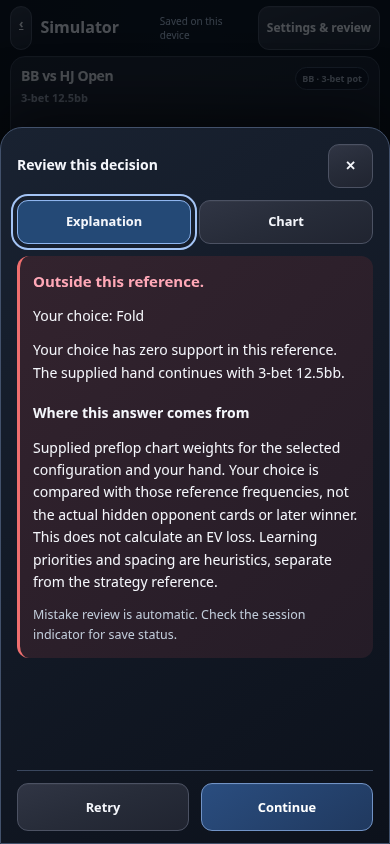
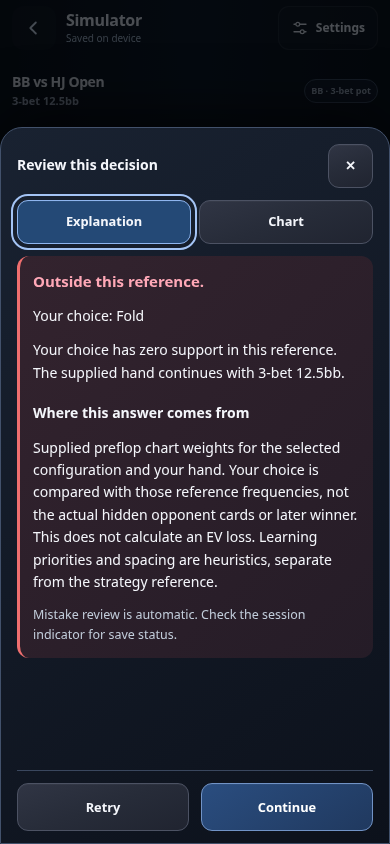
fix: simplify mobile hand finish and polish simulator shell

diff --git a/src/app/interface.css b/src/app/interface.css
@@ -896,3 +896,34 @@ button:not(:disabled):active {
   .trainer-table .playing-card--small .playing-card__rank { font-size:16px; }
   .trainer-table .playing-card--small .playing-card__suit { font-size:14px; }
 }
+@media(max-width:768px), (max-width:1024px) and (max-height:600px) {
+  .trainer-table > .hand-result > .btn { grid-column:1/-1; }
+}
+/* A single continuous play surface, without the former outer card frame. */
+@media(max-width:768px), (max-width:1024px) and (max-height:600px) {
+  body.simulator-focus { background:var(--bg); }
+  .play-page { padding:env(safe-area-inset-top) env(safe-area-inset-right) env(safe-area-inset-bottom) env(safe-area-inset-left); gap:0; background:radial-gradient(ellipse at 50% 0,#18253c48,transparent 65%),var(--bg); }
+  .play-page .trainer-table { border:0; border-radius:0; box-shadow:none; background:transparent; padding:10px 12px; }
+  .sim-header { min-height:56px; padding:6px 12px; gap:10px; }
+  .sim-back { display:grid; place-items:center; flex:none; width:44px; height:44px; border:0; border-radius:12px; color:#e4edfb; background:#ffffff06; text-decoration:none; }
+  .sim-back:hover { background:#ffffff0d; }
+  .sim-header__title { min-width:0; flex:1; display:flex; flex-direction:column; align-items:flex-start; gap:2px; }
+  .sim-header__title strong { font-size:16px; line-height:1.25; letter-spacing:-.3px; }
+  .sim-header__title .sim-save-status { max-width:100%; font-size:10px; line-height:1.35; color:#b3c0d3; }
+  .sim-header .sim-menu { display:flex; align-items:center; justify-content:center; flex:none; gap:7px; min-height:44px; padding:8px 12px; background:#ffffff05; border-color:#ffffff14; box-shadow:none; font-size:12px; }
+  .trainer-table .range-card__head { gap:10px; align-items:center; }
+  .trainer-table .range-card__title h2 { line-height:1.3; }
+  .trainer-table .range-card__title > span { line-height:1.4; margin-top:2px; }
+}
+@media(max-width:768px), (max-width:1024px) and (max-height:600px) {
+  .trainer-table > .sim-compact { display:grid; grid-template-columns:minmax(0,1fr) minmax(0,1fr); grid-template-rows:18px minmax(0,1fr) 44px; gap:4px; padding:6px 8px; overflow:hidden; }
+  .sim-compact > strong,.sim-compact > span { grid-column:1/-1; min-width:0; margin:0; font-size:12px; line-height:1.25; }
+  .sim-compact > strong { white-space:nowrap; overflow:hidden; text-overflow:ellipsis; }
+  .sim-compact > span { width:auto; overflow:hidden; }
+  .trainer-table .sim-compact > .btn { min-width:0; height:44px; min-height:44px; padding:4px 6px; margin:0; font-size:12px; line-height:1.25; }
+}
+.sim-settings .sim-sheet__scroll { display:flex; flex-direction:column; gap:12px; }
+.sim-settings .sim-sheet__scroll > * { flex-shrink:0; }
+.sim-settings .sim-sheet__scroll > .card { margin:0; }
+.sim-settings .sim-sheet__scroll > .footer { display:none; }
+.sim-settings .learning-score-note { margin:0; text-align:left; }

diff --git a/src/components/trainer/PlayFrame.tsx b/src/components/trainer/PlayFrame.tsx
@@ -61,20 +61,49 @@ export function PlayFrame({ children }: { children: ReactNode }) {
     >
       <main className="page play-page">
         <header className="sim-header">
-          <a className="btn" href="/" aria-label="Leave simulator">
-            ‹
+          <a className="sim-back" href="/" aria-label="Leave simulator">
+            <svg
+              width="22"
+              height="22"
+              viewBox="0 0 24 24"
+              fill="none"
+              stroke="currentColor"
+              strokeWidth="2"
+              strokeLinecap="round"
+              strokeLinejoin="round"
+              aria-hidden="true"
+            >
+              <path d="m14 6-6 6 6 6" />
+            </svg>
           </a>
-          <strong>Simulator</strong>
-          <span role="status" className="sim-save-status">
-            {status}
-          </span>
+          <div className="sim-header__title">
+            <strong>Simulator</strong>
+            <span role="status" className="sim-save-status" title={status}>
+              {status === 'Saved on this device' ? 'Saved on device' : status}
+            </span>
+          </div>
           <button
-            className="btn"
+            className="btn sim-menu"
             ref={trigger}
             onClick={() => setSettings(true)}
             aria-haspopup="dialog"
+            aria-label="Settings & review"
           >
-            Settings & review
+            <svg
+              width="18"
+              height="18"
+              viewBox="0 0 24 24"
+              fill="none"
+              stroke="currentColor"
+              strokeWidth="1.7"
+              strokeLinecap="round"
+              aria-hidden="true"
+            >
+              <path d="M4 7h16M4 17h16" />
+              <circle cx="9" cy="7" r="2.5" fill="var(--bg)" />
+              <circle cx="15" cy="17" r="2.5" fill="var(--bg)" />
+            </svg>
+            <span>Settings</span>
           </button>
         </header>
         {children}
@@ -127,4 +156,10 @@ export function MobileCharts({ children }: { children: ReactNode }) {
   ) : (
     <>{children}</>
   )
+}
+
+/** Global page navigation stays outside the focused simulator's settings. */
+export function DesktopOnly({ children }: { children: ReactNode }) {
+  const ui = usePlayUI()
+  return ui?.mobile ? null : <>{children}</>
 }

diff --git a/src/components/trainer/HandResult.tsx b/src/components/trainer/HandResult.tsx
@@ -1,8 +1,7 @@
 'use client'
-import { useEffect, useId, useRef, useState, type ReactNode } from 'react'
-import { useJournal } from '@/learning/Journal'
+import type { ReactNode } from 'react'
 import { usePlayUI } from './PlayFrame'
-/** Keep long final summaries in the same overlay pattern as decision feedback. */
+/** Finish at the table; mobile has no extra end-of-hand review popup. */
 export function HandResult({
   children,
   action,
@@ -10,60 +9,11 @@ export function HandResult({
   children: ReactNode
   action: ReactNode
 }) {
-  const ui = usePlayUI(),
-    { paused } = useJournal(),
-    id = useId(),
-    dialog = useRef<HTMLDialogElement>(null),
-    opener = useRef<HTMLButtonElement>(null)
-  const [expanded, setExpanded] = useState(true)
-  useEffect(() => {
-    const d = dialog.current
-    if (!d) return
-    if (ui?.mobile && expanded && !paused && !ui.settings) {
-      if (!d.open) d.showModal()
-    } else if (d.open) {
-      d.close()
-      if (!expanded) requestAnimationFrame(() => opener.current?.focus())
-    }
-  }, [expanded, ui?.mobile, ui?.settings, paused])
-  if (!ui?.mobile)
-    return (
-      <section className="hand-result" aria-label="Hand result">
-        {children}
-        {action}
-      </section>
-    )
+  const ui = usePlayUI()
   return (
-    <>
-      <section
-        hidden={expanded}
-        className="hand-result"
-        aria-label="Hand result"
-      >
-        <h3>Hand complete</h3>
-        <button ref={opener} className="btn" onClick={() => setExpanded(true)}>
-          Result & showdown
-        </button>
-        {action}
-      </section>
-      <dialog
-        ref={dialog}
-        className="sim-sheet"
-        aria-labelledby={id}
-        onCancel={(e) => {
-          e.preventDefault()
-          setExpanded(false)
-        }}
-      >
-        <header>
-          <h2 id={id}>Hand result</h2>
-          <button className="btn" onClick={() => setExpanded(false)}>
-            Back to table
-          </button>
-        </header>
-        <div className="sim-sheet__scroll">{children}</div>
-        <footer className="sim-sheet__actions">{action}</footer>
-      </dialog>
-    </>
+    <section className="hand-result" aria-label="Hand result">
+      {ui?.mobile ? <h3>Hand complete</h3> : children}
+      {action}
+    </section>
   )
 }

diff --git a/src/components/PlayPage.tsx b/src/components/PlayPage.tsx
@@ -25,7 +25,7 @@ import { JournalShell } from '@/learning/Journal'
 import { FullHandTrainer } from './FullHandTrainer'
 import { HandTrainer } from './HandTrainer'
 import { Segmented } from './Segmented'
-import { PlayFrame, PlayOptions } from './trainer/PlayFrame'
+import { PlayFrame, PlayOptions, DesktopOnly } from './trainer/PlayFrame'
 import { TopNav } from './TopNav'
 import { TrainerSetupPanel } from './TrainerSetupPanel'
 
@@ -146,7 +146,9 @@ export function PlayPage() {
   return (
     <PlayFrame>
       <PlayOptions>
-        <TopNav active="play" setupParams={setupParams} />
+        <DesktopOnly>
+          <TopNav active="play" setupParams={setupParams} />
+        </DesktopOnly>
 
         {GAME_MODES.length > 1 && (
           <section className="card">

diff --git a/docs/implementation/MOBILE_FOCUS.md b/docs/implementation/MOBILE_FOCUS.md
@@ -6,7 +6,7 @@ Scope approved in chat: stop scrolling the simulator page; automatically show th
 
 At widths up to 768 CSS pixels, and short landscape viewports up to 1024 pixels wide, Play uses a safe-area-aware dynamic viewport layout. A compact simulator header replaces the tall navigation stack. Settings & review opens mode/configuration controls, session state, scores, mistake reviews and existing navigation. These are moved using React portals; original controls remain available. Opening settings pauses trainer progression. Seat inspection in preflop opens its existing range view through that panel.
 
-In short landscape windows, table/cards and controls use adjacent columns to retain board readability. The table has a stable allocated region; hero cards and action controls occupy reserved rows. Board dealing changes cards rather than appending page height. Correct/supported feedback stays compact. A zero-support reference choice opens a native modal automatically, including after restoring saved error feedback. Explanation and Chart tabs show existing feedback/source disclosures and the original range/strategy grids. Long content scrolls within the modal. The footer keeps Retry and Continue (or View hand result/Next hand) visible. Final summaries also use an overlay, with Next hand fixed at the bottom and Back to table revealing the showdown without advancing. Escape or Close minimizes feedback without advancing; reopening returns to the same decision. No background action is taken by closing.
+In short landscape windows, table/cards and controls use adjacent columns to retain board readability. The table has a stable allocated region; hero cards and action controls occupy reserved rows. Board dealing changes cards rather than appending page height. Correct/supported feedback stays compact. A zero-support reference choice opens a native modal automatically, including after restoring saved error feedback. Explanation and Chart tabs show existing feedback/source disclosures and the original range/strategy grids. Long content scrolls within the modal. The footer keeps Retry and Continue (or View hand result/Next hand) visible. The final hand-review popup was removed at the user’s request. Mobile finishes at the visible table/runout with Hand complete and Next hand; no additional final-review overlay or Result & showdown action is shown. Escape or Close minimizes feedback without advancing; reopening returns to the same decision. No background action is taken by closing.
 
 Retry uses the existing manual-practice model and source restoration: a fresh manual attempt starts at the recorded pre-decision cursor; the live hand/verdict is preserved as resume state. Repeated retries remain manual practice. Return to live hand restores the paused verdict. Reload during manual practice still resumes the live hand according to the existing recovery contract. Errors during saving/restoration remain visible; no reference is substituted. Background shortcuts ignore modal content and focused controls so Enter does not both activate a modal button and advance the hand.
 
@@ -30,6 +30,14 @@ Verification: 2026-11-15, Linux/Node 24, production Next build and headless Chro
 2. Play several decisions: controls remain reachable and the page does not scroll. A reference error opens the complete explanation automatically; a supported answer stays compact.
 3. Open Chart, scroll inside the panel and verify Retry/Continue stay at the bottom. Close the panel and confirm the same table remains.
 4. Retry the exact decision, then Return to live hand. Confirm the original hand is still paused at its feedback. Reload an error and check its explanation opens again.
-5. Finish a hand, read the result, choose Back to table to inspect the runout, reopen Result & showdown, then Next hand. Rotate the phone and repeat the control check.
+5. Finish a hand: the runout remains at the table with Hand complete and Next hand. Confirm there is no final-review popup, including after reload. Rotate the phone and repeat the control check.
 
 Report any clipping with the phone model, orientation, screenshot and whether the app was opened from Safari or the Home Screen. VoiceOver and accessibility text sizes need their own device checks.
+
+Follow-up: removed only the newly introduced mobile final-review popup and its reopen action. Decision feedback, full stored runouts, explicit Next hand, saved reviews and desktop inline results are preserved.
+
+Interface follow-up: the mobile play surface is edge-to-edge, with no surrounding card border, rounded frame or inset shadow. The header uses a consistent 44px back target, aligned title/save text and a compact Settings control. Global Ranges/Play/Learn navigation is omitted from mobile settings so this panel cannot navigate away from the simulator; desktop navigation is unchanged. Compact feedback reserves fixed rows for its buttons, including short screens.
+
+The settings panel also uses consistent spacing and left-aligned supporting text; the old general page footer is omitted there. Strategy provenance remains available in decision feedback.
+
+Follow-up verification: 147 unit tests, TypeScript, reviewed integrity guard and production build pass; all 39 browser journeys pass, followed by all 11 mobile-focus journeys again after the final settings-spacing adjustment. Checks assert a borderless square-edged play surface, reachable header controls, absence of global navigation in mobile settings, and no final-result modal or reopen action, including after reload. Actual iPhone/Safari follow-up remains outstanding.

diff --git a/ROADMAP.md b/ROADMAP.md
@@ -10,7 +10,9 @@ This file is the persistent build checklist. [LEARNING_PLAN.md](docs/LEARNING_PL
 - [x] Automatically open full error explanations; scroll only overlay content while keeping Retry/Continue visible. Supported answers retain compact feedback.
 - [x] Preserve exact manual retries, live-hand recovery, chart access and complete-hand result acknowledgement; keep Next hand reachable on small screens.
 - [x] Finish automated verification and delivery; see [the implementation audit](docs/implementation/MOBILE_FOCUS.md).
-- [ ] User test on iPhone 13/Home Screen, including error/retry, long charts, final result and rotation.
+- [x] User approved the mobile layout; remove the final hand-review popup while retaining the completed table/runout and Next hand.
+- [x] Remove the mobile outer frame; align header/status text and improve the back/settings controls; remove global navigation from simulator settings.
+- [ ] Follow-up iPhone/Home Screen test of the simplified finish, seamless layout and rotation.
 - [ ] Next approval: table styling preview, then a separately approved home screen. Leave Learn unchanged for now.
 
 ## Current verified foundation

diff --git a/README.md b/README.md
@@ -60,3 +60,5 @@ Supported simulator mistakes now offer **Practice this skill**, with fresh examp
 On phones, Play now dedicates the screen to the simulator. **Settings & review** opens the existing setup, session and review controls. Errors automatically open the explanation overlay; its Chart tab contains the existing range/strategy grids. Scroll within the overlay while Retry and Continue remain at the bottom. Correct/supported answers keep compact feedback. Closing feedback does not advance the hand. Exact retries preserve your live hand as separate manual practice. The hand-result panel also keeps Next hand reachable.
 
 See [scope, verification and phone testing limits](docs/implementation/MOBILE_FOCUS.md). This step leaves the table styling, home screen and Learn design for later approval. Installed offline packs need updating to load a new app build after deployment.
+
+Mobile polish follow-up: the play surface is seamless, header controls/text are aligned, and simulator settings no longer include global page navigation. The final hand-review popup has been removed; the completed table/runout and Next hand remain available.

diff --git a/docs/design/mobile-focus/README.md b/docs/design/mobile-focus/README.md
@@ -12,7 +12,7 @@ Captured from the production app in headless Chromium, not generated mockups. Ph
 
 ## Final result — 320 × 568
 
-![Final hand summary with fixed Next hand](small-phone-result.png)
+![Hand complete at the table with Next hand](small-phone-result.png)
 
-Back to table closes the result overlay without advancing; Result & showdown reopens it. In short landscape layouts, the table/cards occupy the left column and action controls occupy the right.
+The final-review popup and its reopen action have been removed; the table remains visible with Next hand. In short landscape layouts, the table/cards occupy the left column and action controls occupy the right.
 
